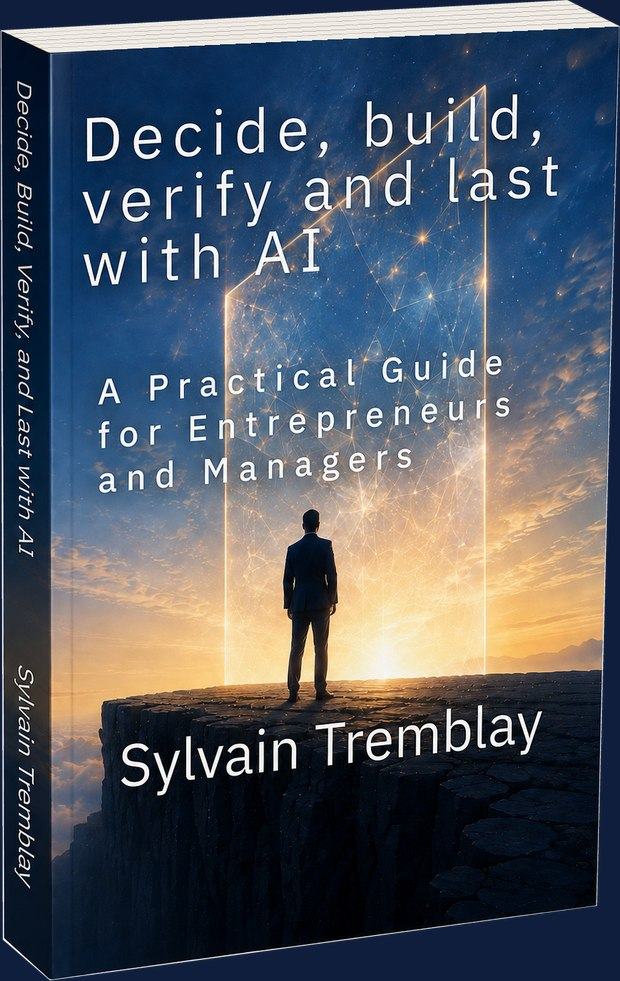
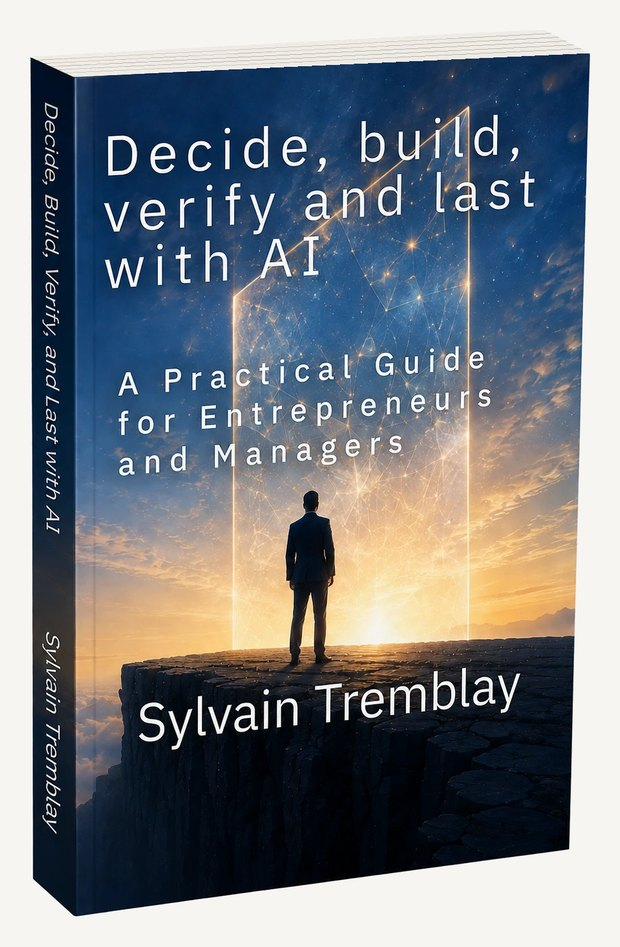
Pose les maquettes du guide sur papier plutôt que sur l'encre
Les maquettes 3D du guide sont rendues pour un fond clair : elles portent un
contour blanc opaque le long de leur silhouette. Aplaties sur --encre, la
couverture (bleu nuit) se fondait dans le fond et seul ce contour restait
visible — le « drôle d'effet de bleu dans le bas ».

Retirer le contour par érosion du masque alpha marche, mais le livre perd son
arête basse et bave dans le fond. Les fichiers sont donc réaplatis sur
--papier, avec 5 % de marge, et posés comme une plaque claire dans le bandeau
sombre. L'ombre CSS redevient possible, le fichier étant rectangulaire.

diff --git a/assets/style.css b/assets/style.css
@@ -247,9 +247,15 @@ h2{
   gap:3.5rem;align-items:center;
 }
 .gratuit .couverture-guide{margin:0}
-/* La maquette en volume porte sa propre ombre et n'est pas rectangulaire :
-   pas d'ombre CSS, qui dessinerait un rectangle derrière le livre. */
-.gratuit .couverture-guide img{width:100%;height:auto;display:block}
+/* La maquette est rendue pour un fond clair : elle porte un liseré blanc le
+   long de sa silhouette. Sur l'encre, ce liseré flottait tout seul, la
+   couverture étant elle-même bleu nuit. Le fichier est donc aplati sur
+   --papier et posé comme une plaque dans le bandeau sombre. Ne pas le
+   réaplatir sur --encre : le liseré reviendrait. */
+.gratuit .couverture-guide img{
+  width:100%;height:auto;display:block;
+  box-shadow:0 1.25rem 2.5rem rgba(0,0,0,.35);
+}
 .pastille{
   display:inline-block;font-family:"IBM Plex Mono",monospace;
   font-size:.6875rem;letter-spacing:.16em;text-transform:uppercase;font-weight:500;

diff --git a/CLAUDE.md b/CLAUDE.md
@@ -65,10 +65,22 @@ L'argumentaire est repris **mot pour mot des quatrièmes de couverture des guide
 rédigé pour l'occasion.
 
 Les illustrations sont les **maquettes en volume fournies par l'éditeur** (`Couverture/*3D*.png`
-sur le Drive), recadrées au contenu et **aplaties sur `--encre`** : 2 100 ko de PNG
-deviennent 140 ko de JPEG. Elles ne peuvent donc paraître que sur le fond bleu nuit de la
-section. Elles portent déjà leur ombre — `.gratuit .couverture-guide img` n'applique
-**aucune ombre CSS**, qui dessinerait un rectangle derrière un livre en perspective.
+sur le Drive), recadrées au contenu et **aplaties sur `--papier`**, avec 5 % de marge : 2 100 ko
+de PNG deviennent 230 ko de JPEG. Elles se posent donc comme une plaque claire dans le
+bandeau sombre, et `.gratuit .couverture-guide img` porte une ombre CSS — le fichier étant
+maintenant rectangulaire, l'ombre suit sa forme.
+
+**Ne pas les réaplatir sur `--encre`.** C'était le premier choix, et il produisait le défaut
+signalé le 6 septembre 2026 : un liseré clair flottant sous le livre. Ces maquettes sont
+rendues pour un fond clair et portent un **contour blanc opaque** le long de leur
+silhouette — pas un artefact de transparence : dans la moitié basse du PNG on compte
+96 510 pixels clairs opaques contre 2 308 semi-transparents. Sur l'encre, la couverture
+(bleu nuit elle aussi) se fondait dans le fond et seul ce contour restait visible. Le retirer
+par érosion du masque alpha fonctionne, mais le livre perd alors son arête basse et bave
+dans le fond : c'est pire. Le fond clair est la seule issue propre.
+
+C'est la différence avec les `couverture-*-3d.jpg` des pages d'ouvrage, fabriquées ici même
+et donc aplaties sur `--encre` pour le hero. Les deux jeux ne suivent pas la même règle.
 
 La promesse est reprise au-dessus du formulaire sur les **six pages**, dans un `.offre`, et
 les deux politiques de confidentialité la mentionnent.
